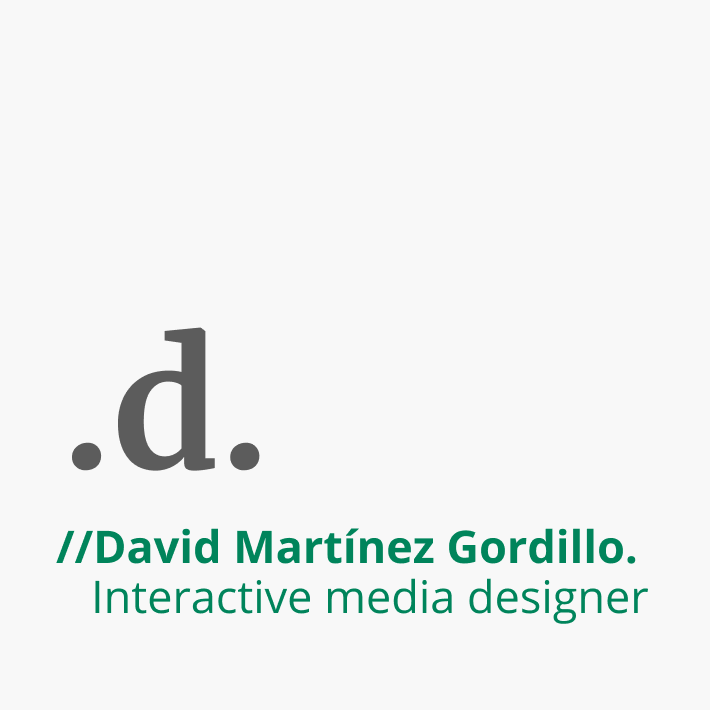
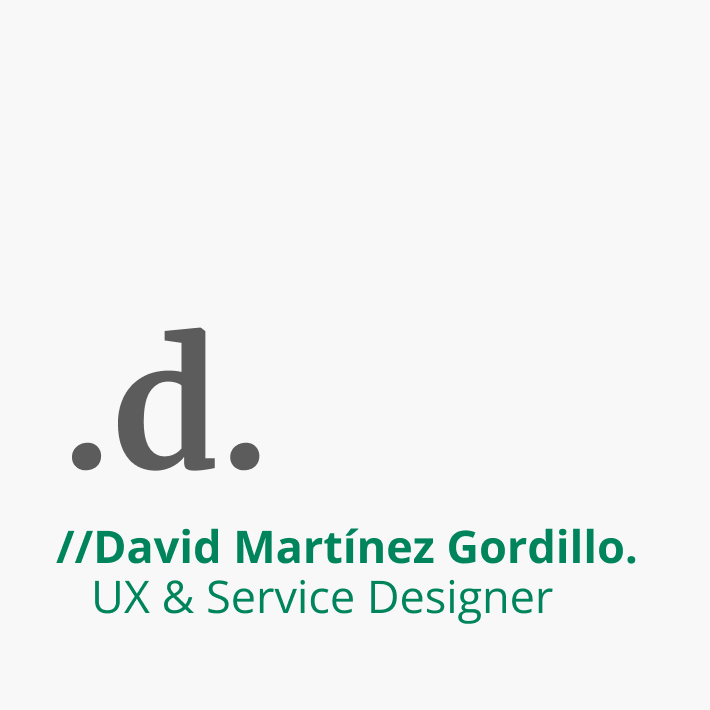
Updated 2025

Changed region(s): [[0.1239, 0.8056, 0.8986, 0.8986]]

diff --git a/index.html b/index.html
@@ -4,7 +4,7 @@
 <head>
     <meta charset="UTF-8">
     <title>.david.</title>
-    <meta name="description" content="Hello, I am an interactive media designer from Cali, Colombia">
+    <meta name="description" content="Tackling complex problems with a human-centered systemic approach.">
     <meta name="author" content="David Martínez Gordillo">
     <meta name="viewport" content="width=device-width, initial-scale=1.0">
 
@@ -12,11 +12,11 @@
     <!-- Twitter Card data -->
     <meta name="twitter:card" value="summary">
     <!-- Open Graph data -->
-    <meta property="og:title" content="David" />
+    <meta property="og:title" content="David Martínez Gordillo" />
     <meta property="og:type" content="article" />
     <meta property="og:url" content="https://davmg.github.io/" />
     <meta property="og:image" content="https://davmg.github.io/imgs/icn-david-card.png" />
-    <meta property="og:description" content="Hello, I am an interactive media designer from Cali, Colombia" />
+    <meta property="og:description" content="Tackling complex problems with a human-centered systemic approach." />
     <meta name="theme-color" content="#F8F8F8">
 
     <link rel="stylesheet" type="text/css" href="styles-global.css">

diff --git a/domu.html b/domu.html
@@ -9,7 +9,7 @@
 
     <meta charset="UTF-8">
     <title>.david.</title>
-    <meta name="description" content="Hello, I am an interactive media designer from Cali, Colombia">
+    <meta name="description" content="Tackling complex problems with a human-centered systemic approach.">
     <meta name="author" content="David Martínez Gordillo">
     <meta name="viewport" content="width=device-width, initial-scale=1.0">
 
@@ -17,11 +17,11 @@
     <!-- Twitter Card data -->
     <meta name="twitter:card" value="summary">
     <!-- Open Graph data -->
-    <meta property="og:title" content="David" />
+    <meta property="og:title" content="David Martínez Gordillo" />
     <meta property="og:type" content="article" />
     <meta property="og:url" content="https://davmg.github.io/" />
     <meta property="og:image" content="https://davmg.github.io/imgs/icn-david-card.png" />
-    <meta property="og:description" content="Hello, I am an interactive media designer from Cali, Colombia" />
+    <meta property="og:description" content="Tackling complex problems with a human-centered systemic approach." />
     <meta name="theme-color" content="#F8F8F8">
 
     <link rel="stylesheet" type="text/css" href="styles-global.css">

diff --git a/mimic.html b/mimic.html
@@ -9,7 +9,7 @@
 
     <meta charset="UTF-8">
     <title>.david.</title>
-    <meta name="description" content="Hello, I am an interactive media designer from Cali, Colombia">
+    <meta name="description" content="Tackling complex problems with a human-centered systemic approach.">
     <meta name="author" content="David Martínez Gordillo">
     <meta name="viewport" content="width=device-width, initial-scale=1.0">
 
@@ -17,11 +17,11 @@
     <!-- Twitter Card data -->
     <meta name="twitter:card" value="summary">
     <!-- Open Graph data -->
-    <meta property="og:title" content="David" />
+    <meta property="og:title" content="David Martínez Gordillo" />
     <meta property="og:type" content="article" />
     <meta property="og:url" content="https://davmg.github.io/" />
     <meta property="og:image" content="https://davmg.github.io/imgs/icn-david-card.png" />
-    <meta property="og:description" content="Hello, I am an interactive media designer from Cali, Colombia" />
+    <meta property="og:description" content="Tackling complex problems with a human-centered systemic approach." />
     <meta name="theme-color" content="#F8F8F8">
 
     <link rel="stylesheet" type="text/css" href="styles-global.css">

diff --git a/miscusi.html b/miscusi.html
@@ -9,7 +9,7 @@
 
     <meta charset="UTF-8">
     <title>.david.</title>
-    <meta name="description" content="Hello, I am an interactive media designer from Cali, Colombia">
+    <meta name="description" content="Tackling complex problems with a human-centered systemic approach.">
     <meta name="author" content="David Martínez Gordillo">
     <meta name="viewport" content="width=device-width, initial-scale=1.0">
 
@@ -17,11 +17,11 @@
     <!-- Twitter Card data -->
     <meta name="twitter:card" value="summary">
     <!-- Open Graph data -->
-    <meta property="og:title" content="David" />
+    <meta property="og:title" content="David Martínez Gordillo" />
     <meta property="og:type" content="article" />
     <meta property="og:url" content="https://davmg.github.io/" />
     <meta property="og:image" content="https://davmg.github.io/imgs/icn-david-card.png" />
-    <meta property="og:description" content="Hello, I am an interactive media designer from Cali, Colombia" />
+    <meta property="og:description" content="Tackling complex problems with a human-centered systemic approach." />
     <meta name="theme-color" content="#F8F8F8">
 
     <link rel="stylesheet" type="text/css" href="styles-global.css">

diff --git a/morningstar.html b/morningstar.html
@@ -9,7 +9,7 @@
 
     <meta charset="UTF-8">
     <title>.david.</title>
-    <meta name="description" content="Hello, I am an interactive media designer from Cali, Colombia">
+    <meta name="description" content="Tackling complex problems with a human-centered systemic approach.">
     <meta name="author" content="David Martínez Gordillo">
     <meta name="viewport" content="width=device-width, initial-scale=1.0">
 
@@ -17,11 +17,11 @@
     <!-- Twitter Card data -->
     <meta name="twitter:card" value="summary">
     <!-- Open Graph data -->
-    <meta property="og:title" content="David" />
+    <meta property="og:title" content="David Martínez Gordillo" />
     <meta property="og:type" content="article" />
     <meta property="og:url" content="https://davmg.github.io/" />
     <meta property="og:image" content="https://davmg.github.io/imgs/icn-david-card.png" />
-    <meta property="og:description" content="Hello, I am an interactive media designer from Cali, Colombia" />
+    <meta property="og:description" content="Tackling complex problems with a human-centered systemic approach." />
     <meta name="theme-color" content="#F8F8F8">
 
     <link rel="stylesheet" type="text/css" href="styles-global.css">
